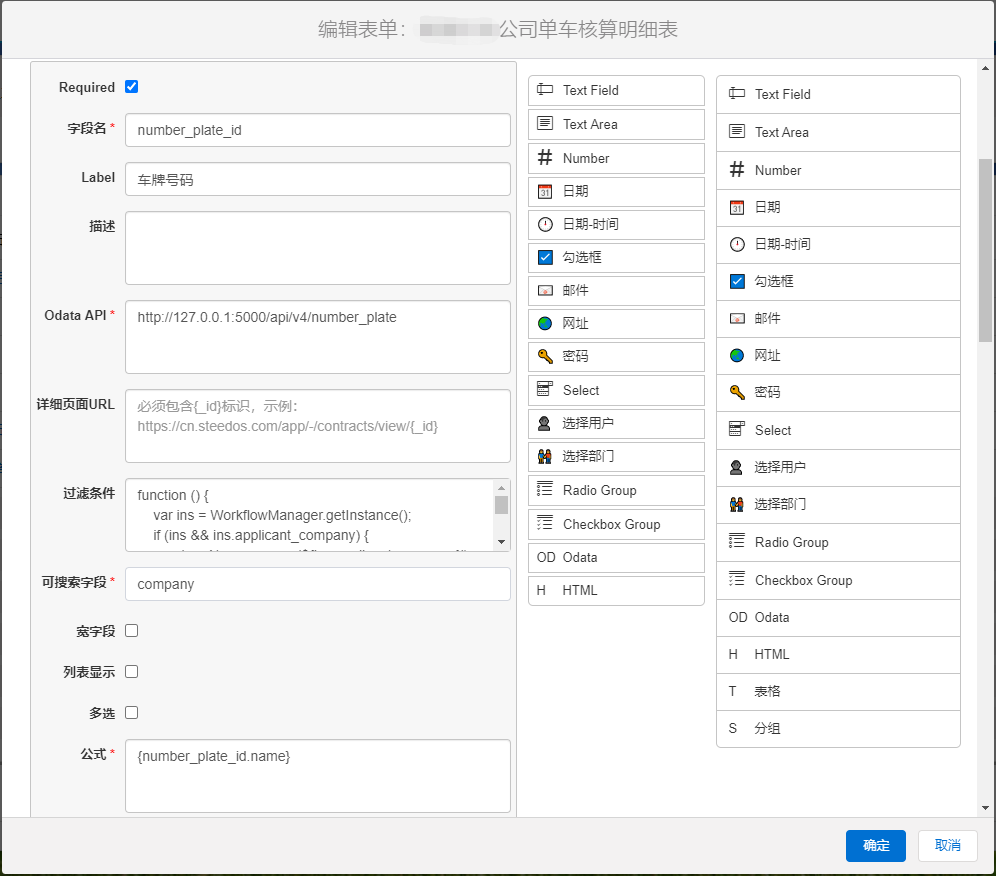
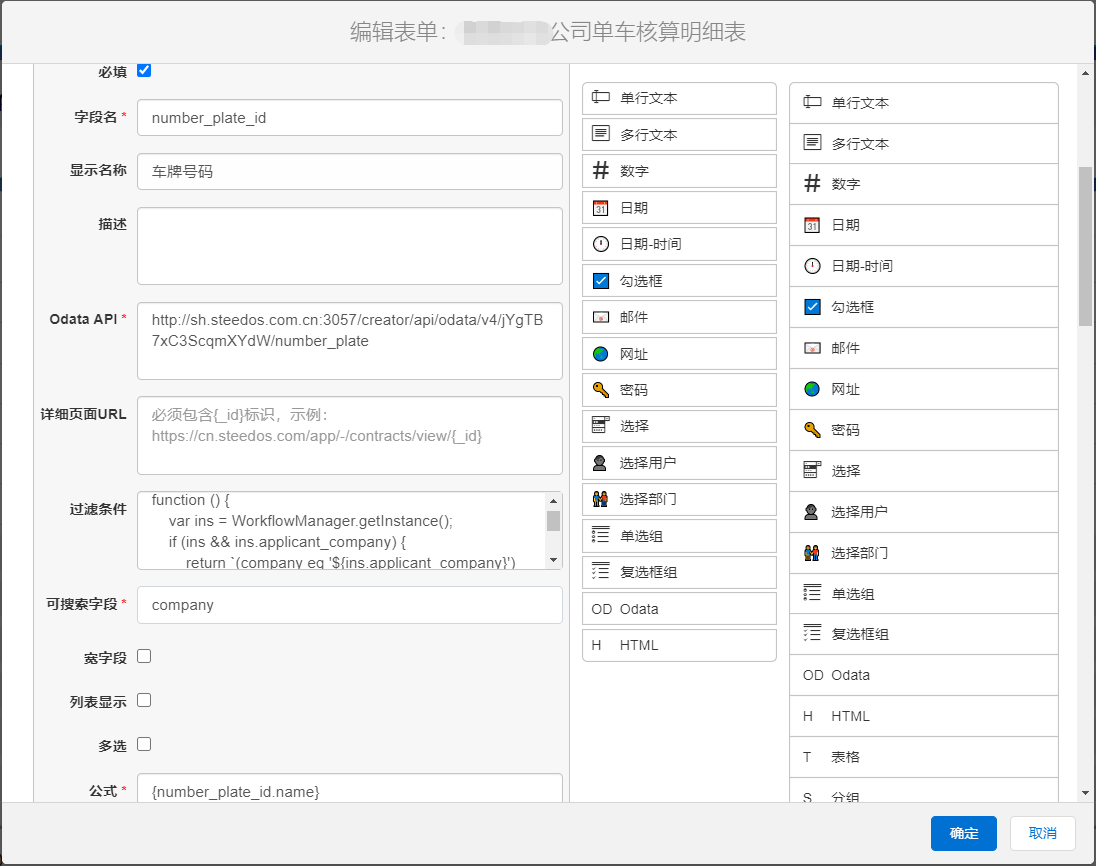
#105 帮助-odata字段

diff --git a/docs/help/workflow/field_odata.md b/docs/help/workflow/field_odata.md
@@ -2,8 +2,17 @@
 title: odata字段
 ---
 
-选择类型字段，除了下拉框字段外，通过设置默认值作为固定选择项，还有odata字段，可通过API配置系统中的其他数据源或外部数据库以及其他业务系统接口，通过字段属性可预置选择项。
-以‘XX公司单车核算明细表’为例，可参照下图，进行配置：
+选择类型字段，除了设置默认值选项的下拉框外，还有odata字段：可通过API配置系统中的其他数据源，或外部数据库、其他业务系统接口，并填写字段名、可搜索字段、公式这4个字段属性可预置选择项，再根据实际应用，增加过滤条件。
+
+以‘XX公司单车核算明细表’为例，现有车牌号台账，为queue_import数据导入，使用单位为“信息管理部”的车牌号如下图所示：
+
+![odata](/assets/workflow/odata_2.png)
+
+odata字段“车牌号码”，配置 [过滤条件-函数支持] (#函数支持) 实例，根据申请人单位带出对应车牌号。
+
+![odata](/assets/workflow/odata_1.png)
+
+可参照下图，进行配置：
 
 - “设置-流程设置-流程”，点击流程名“XX单车核算明细表”进入流程详细页，点击右上角按钮“表单设计器”，打开新版表单设计器编辑表单。
 - 点击右侧新建Odata字段，勾选必填，并输入必填属性：字段名、Odata API、可搜索字段、公式等。
@@ -13,17 +22,20 @@ title: odata字段
 ![odata属性](/assets/workflow/odata.png)
 
 - 必填：必填打勾后，提交的申请单不允许为空，表单上以红色“*”标记。若不打勾，则在提交申请单时可以为空。
-- 字段名：必填项，实际存放在数据库中的名字，此名字在同一张申请单中不可重复，示例：number_plate_id。**注：字段名必须为下拉数据的id。**
+- 字段名：**必填项**，实际存放在数据库中的名字，此名字在同一张申请单中不可重复，示例：number_plate_id。**注：字段名必须为下拉数据的id。**
 - 显示名称：审批单中实际显示的名字，同一张申请单中可重复，默认的显示名和字段名相同，用户也可自行修改。
 - 描述：申请单上鼠标放在该字段上面，显示的说明文字。
-- Odata API：必填项，申请单中该字段选项值保存所在位置，即下拉数据的URL地址，示例：`http://127.0.0.1:5000/api/v4/number_plate`。
+- Odata API：**必填项**，申请单中该字段选项值保存所在位置，即下拉数据的URL地址，示例：`http://sh.steedos.com.cn:3057/creator/api/odata/v4/jYgTB7xC3ScqmXYdW/number_plate`。
+
+![odata属性](/assets/workflow/odata_3.png)
+
 - 详细页面URL：必须包含{_id}标识，示例：`http://cn.steedos.com/app/-/contracts/view/{_id}`。
 - 过滤条件：按需可配置某个属性的条件，支持js脚本，示例：state eq '启用'。
-- 可搜索字段：必填项，配置下拉数据相关属性值，示例：company。
+- 可搜索字段：**必填项**，配置下拉数据相关属性值，示例：company。
 - 宽字段：打勾后，字段显示宽度跨两列，不打勾，字段显示宽度只有一列。
 - 列表显示：打勾后，在任何地方，进入高级搜索界面后，选择该字段所在的流程，会在列表显示的时候就会多一列显示此字段的内容。
 - 多选：打勾后，该字段可以选择多个下拉选项。
-- 公式：必填项，配置下拉数据的显示名，示例：{number_plate_id.name}。
+- 公式：**必填项**，配置下拉数据的显示名，示例：{number_plate_id.name}。
 
 ## 过滤条件
 
